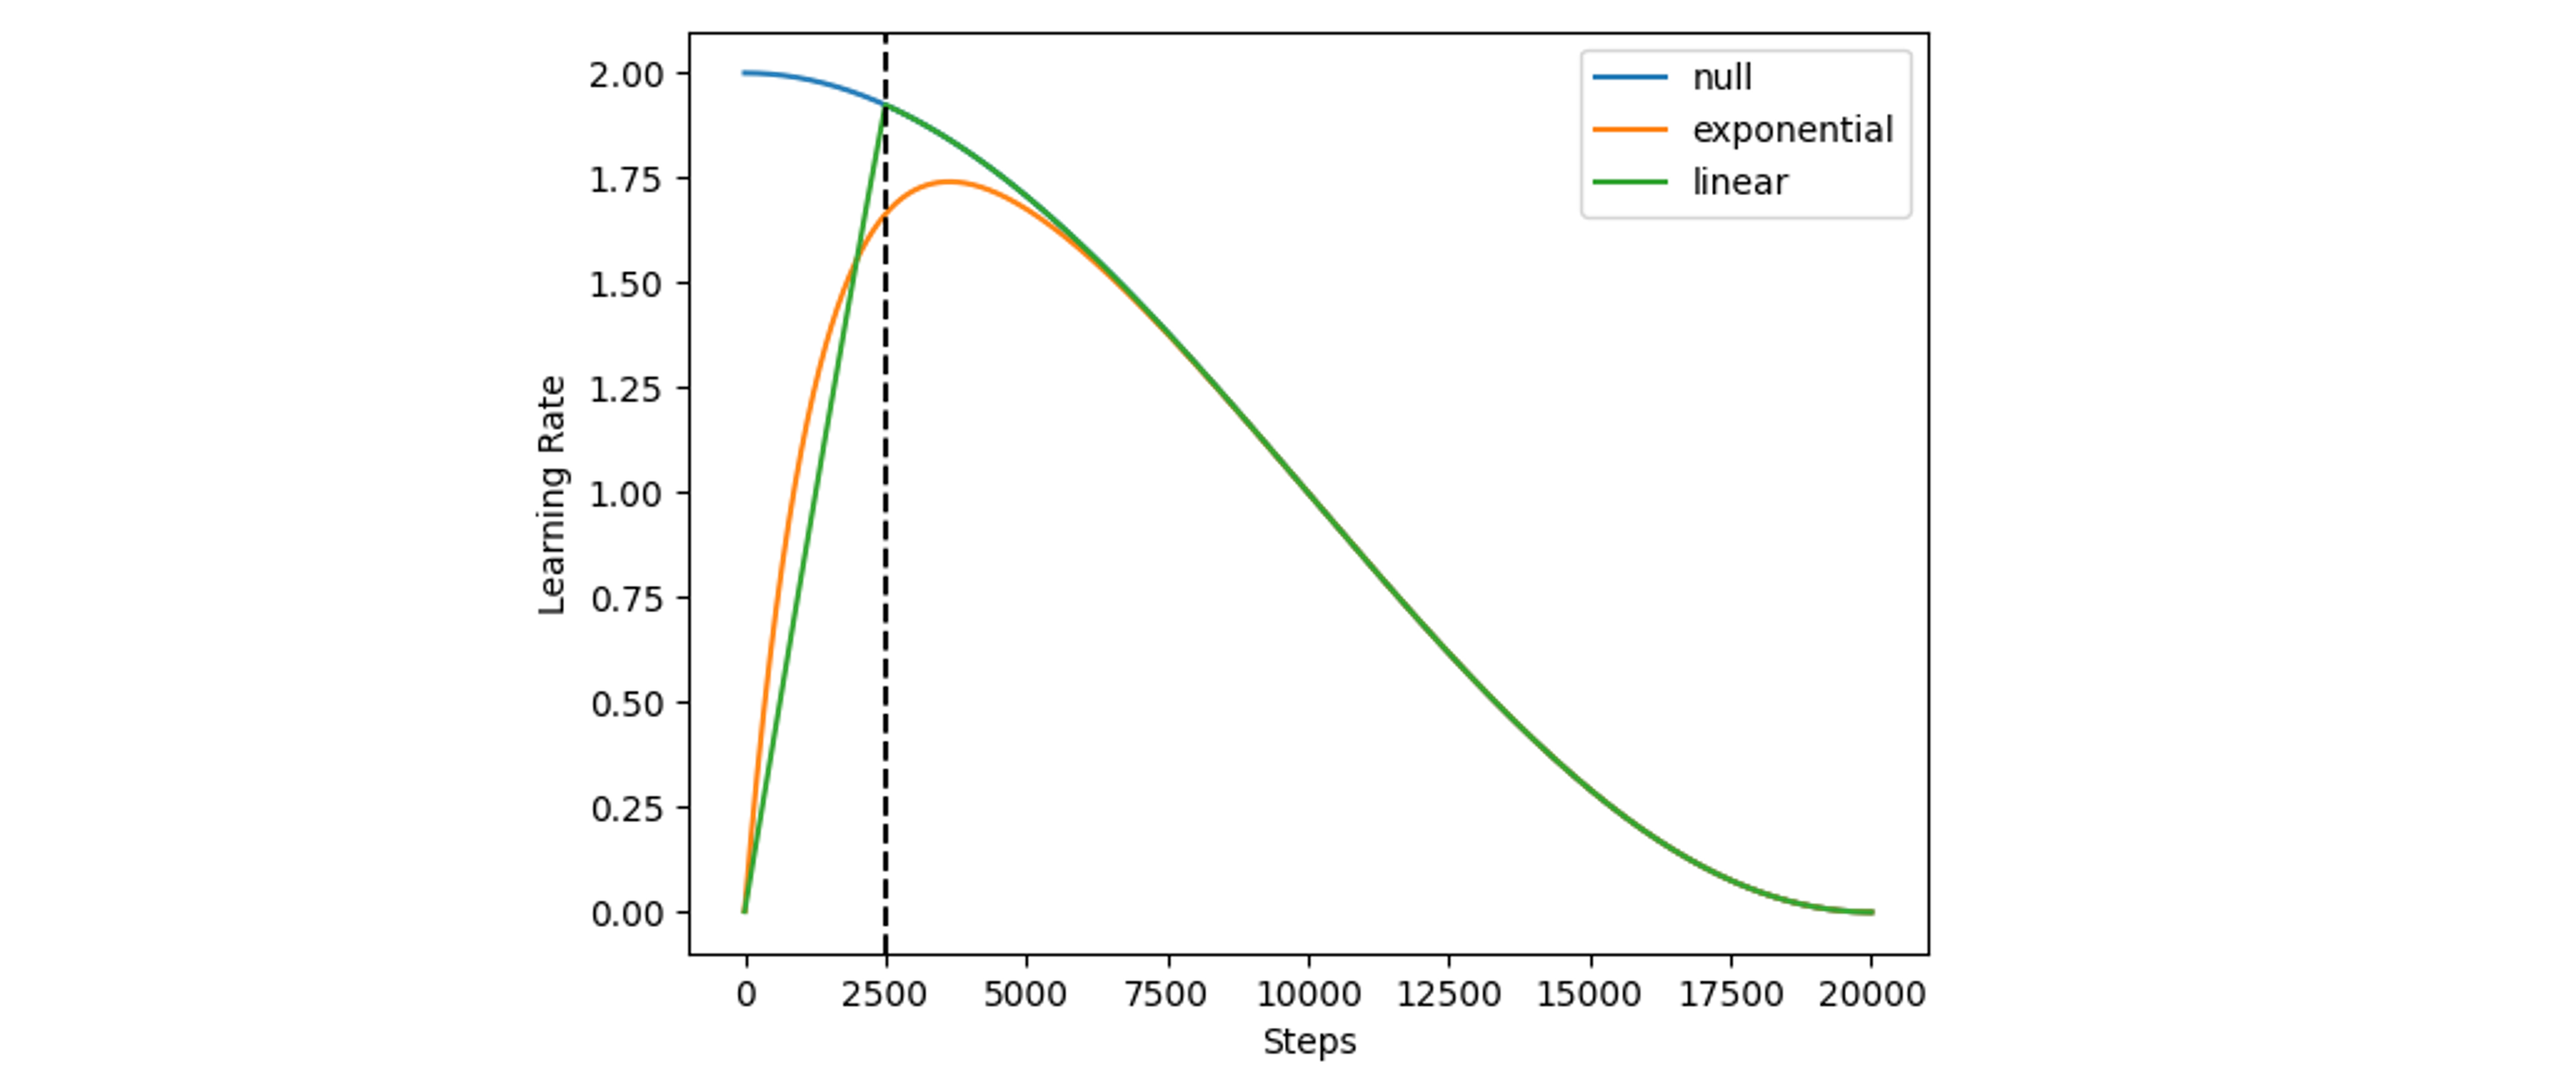
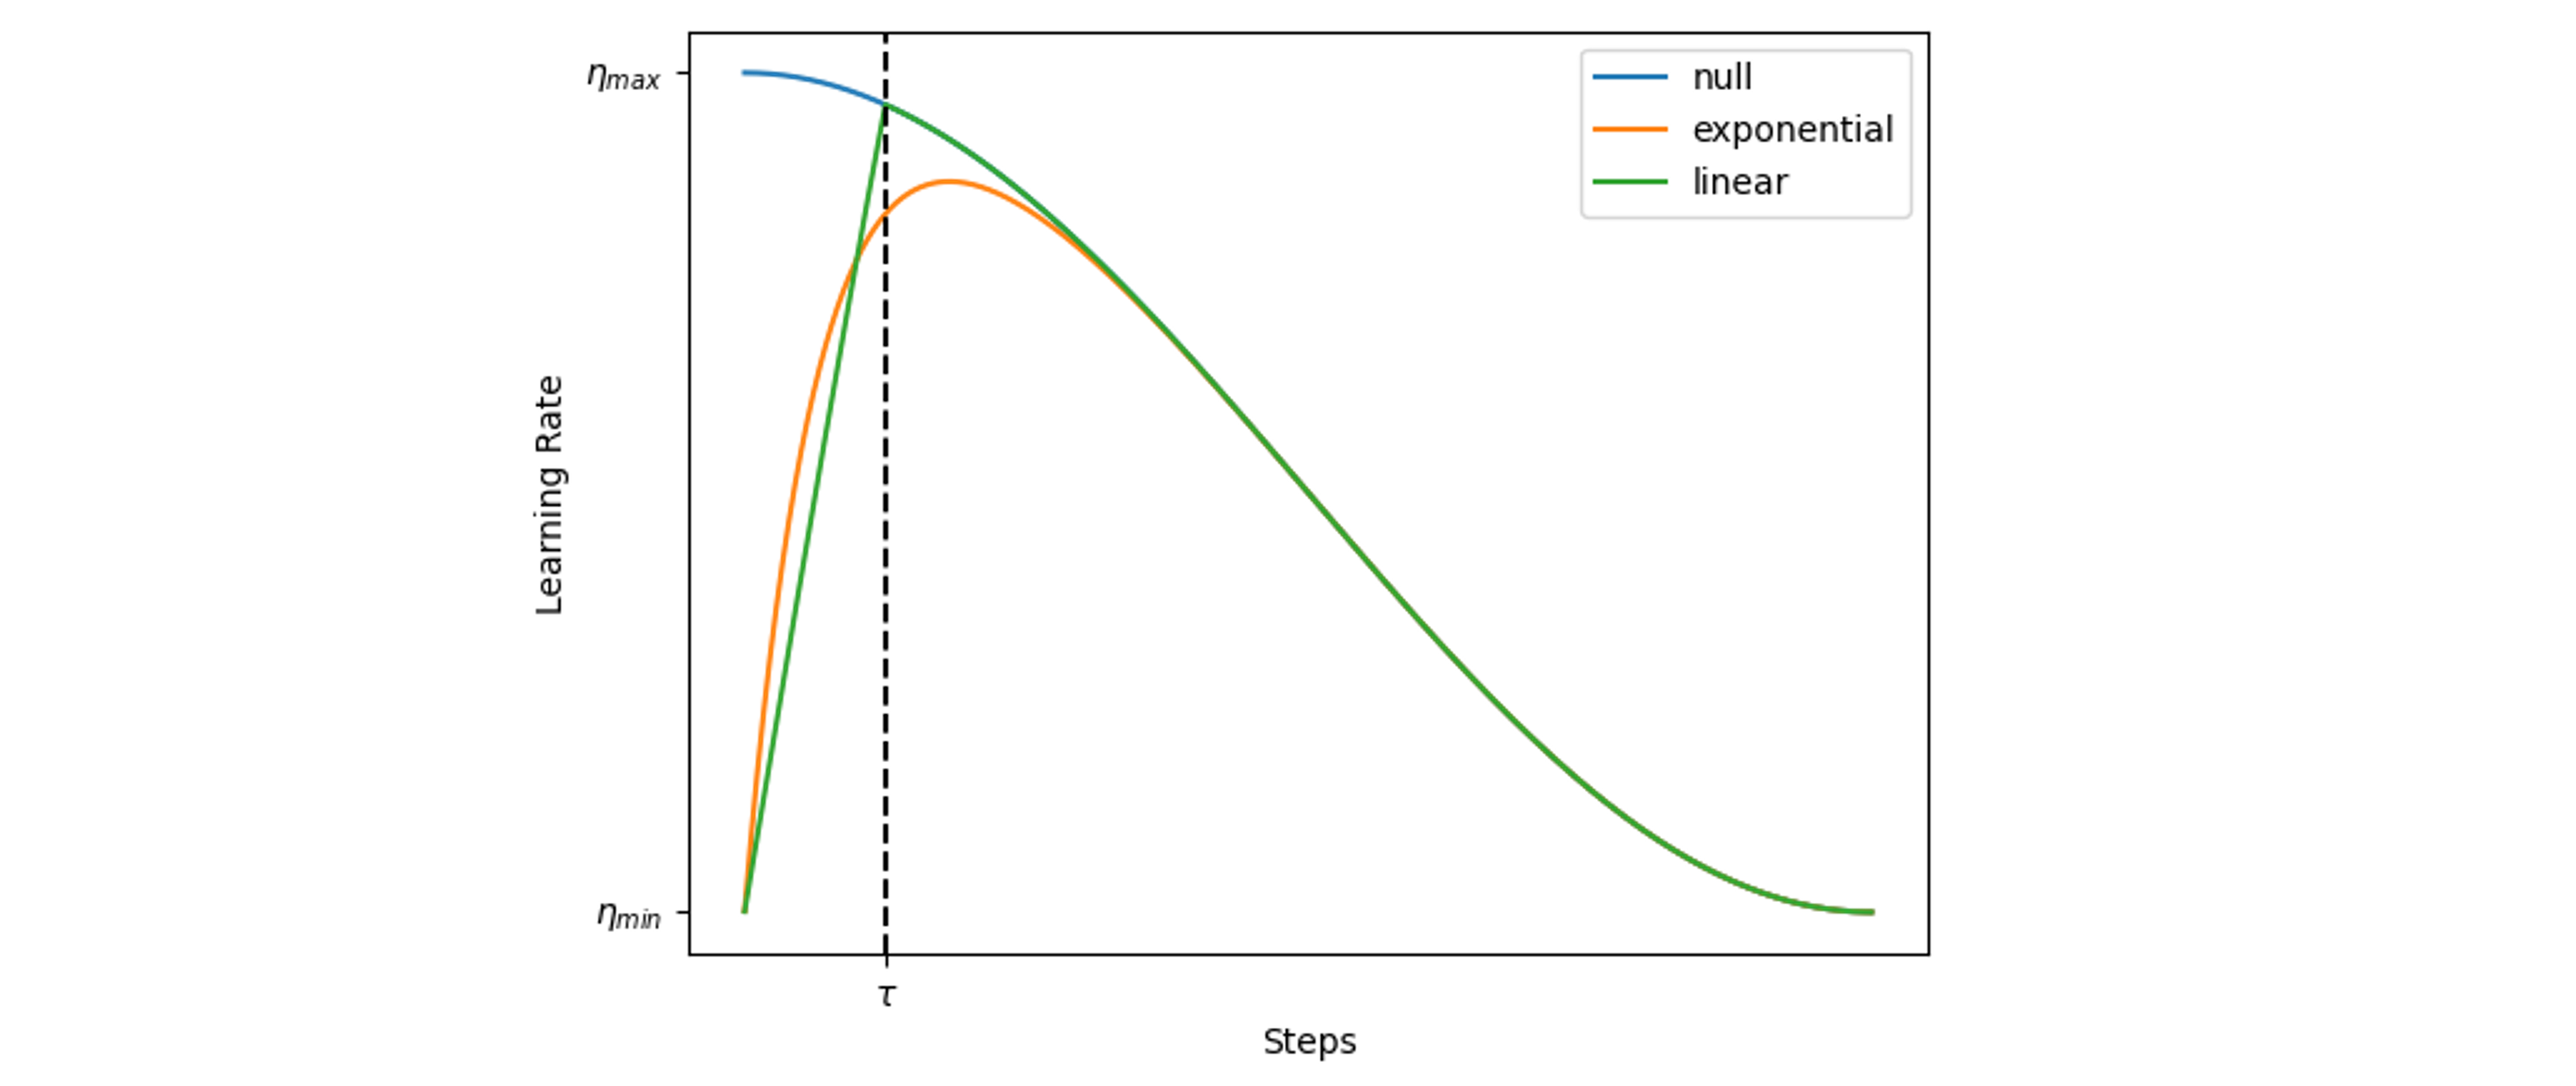
mod figure of warmup

diff --git a/source/usage/trainer_cfg.md b/source/usage/trainer_cfg.md
@@ -119,7 +119,7 @@ trainer:
 | `warmup_scheduler` | `str` | `linear` | 学习率预热方式（不区分大小写） | `null`, `linear`, `exponential`, `untuned_linear`, `untuned_exponential`, `RAdam` |
 | `warmup_epochs` | `int` | `10` | 学习率预热 Epoch 数 | - |
 
-学习率预热是使用的 [pytorch-warmup](https://pypi.org/project/pytorch-warmup/) 库，简单来说就是将学习率缓缓从 0 开始上升，避免初始学习率过大导致训练不稳定的问题。`warmup_epochs` 仅针对 `linear` 和 `exponential` 生效，程序会将预热的 Epoch 数量换算成梯度下降的步数。以余弦学习率变化为例，下图为 2500 步（不是 Epoch）预热的学习率变化图：
+学习率预热是使用的 [pytorch-warmup](https://pypi.org/project/pytorch-warmup/) 库，简单来说就是将学习率缓缓从 0 开始上升，避免初始学习率过大导致训练不稳定的问题。`warmup_epochs` 仅针对 `linear` 和 `exponential` 生效，程序会将预热的 Epoch 数量换算成梯度下降的步数。以余弦学习率变化为例，下图为预热步数为 $\tau$ 的学习率变化趋势：
 
 ![Warmup](../figures/Warmup.png)
 
